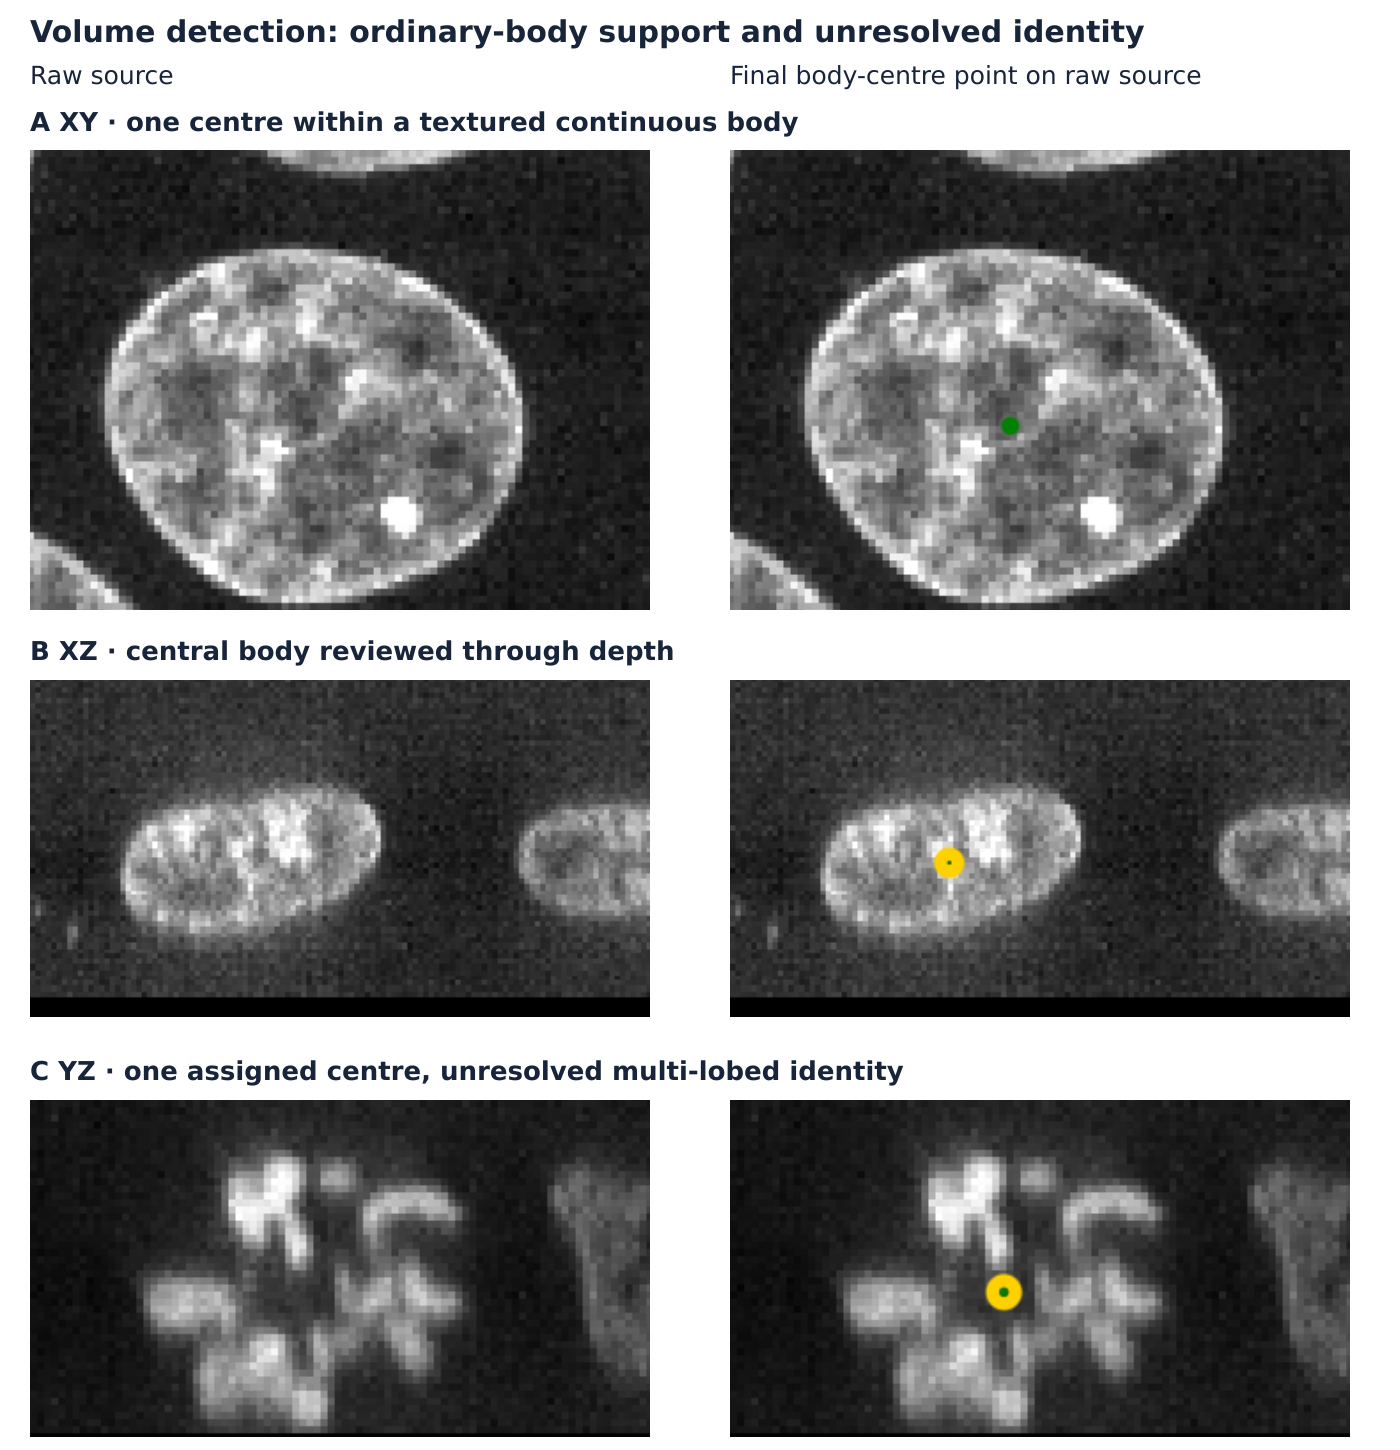
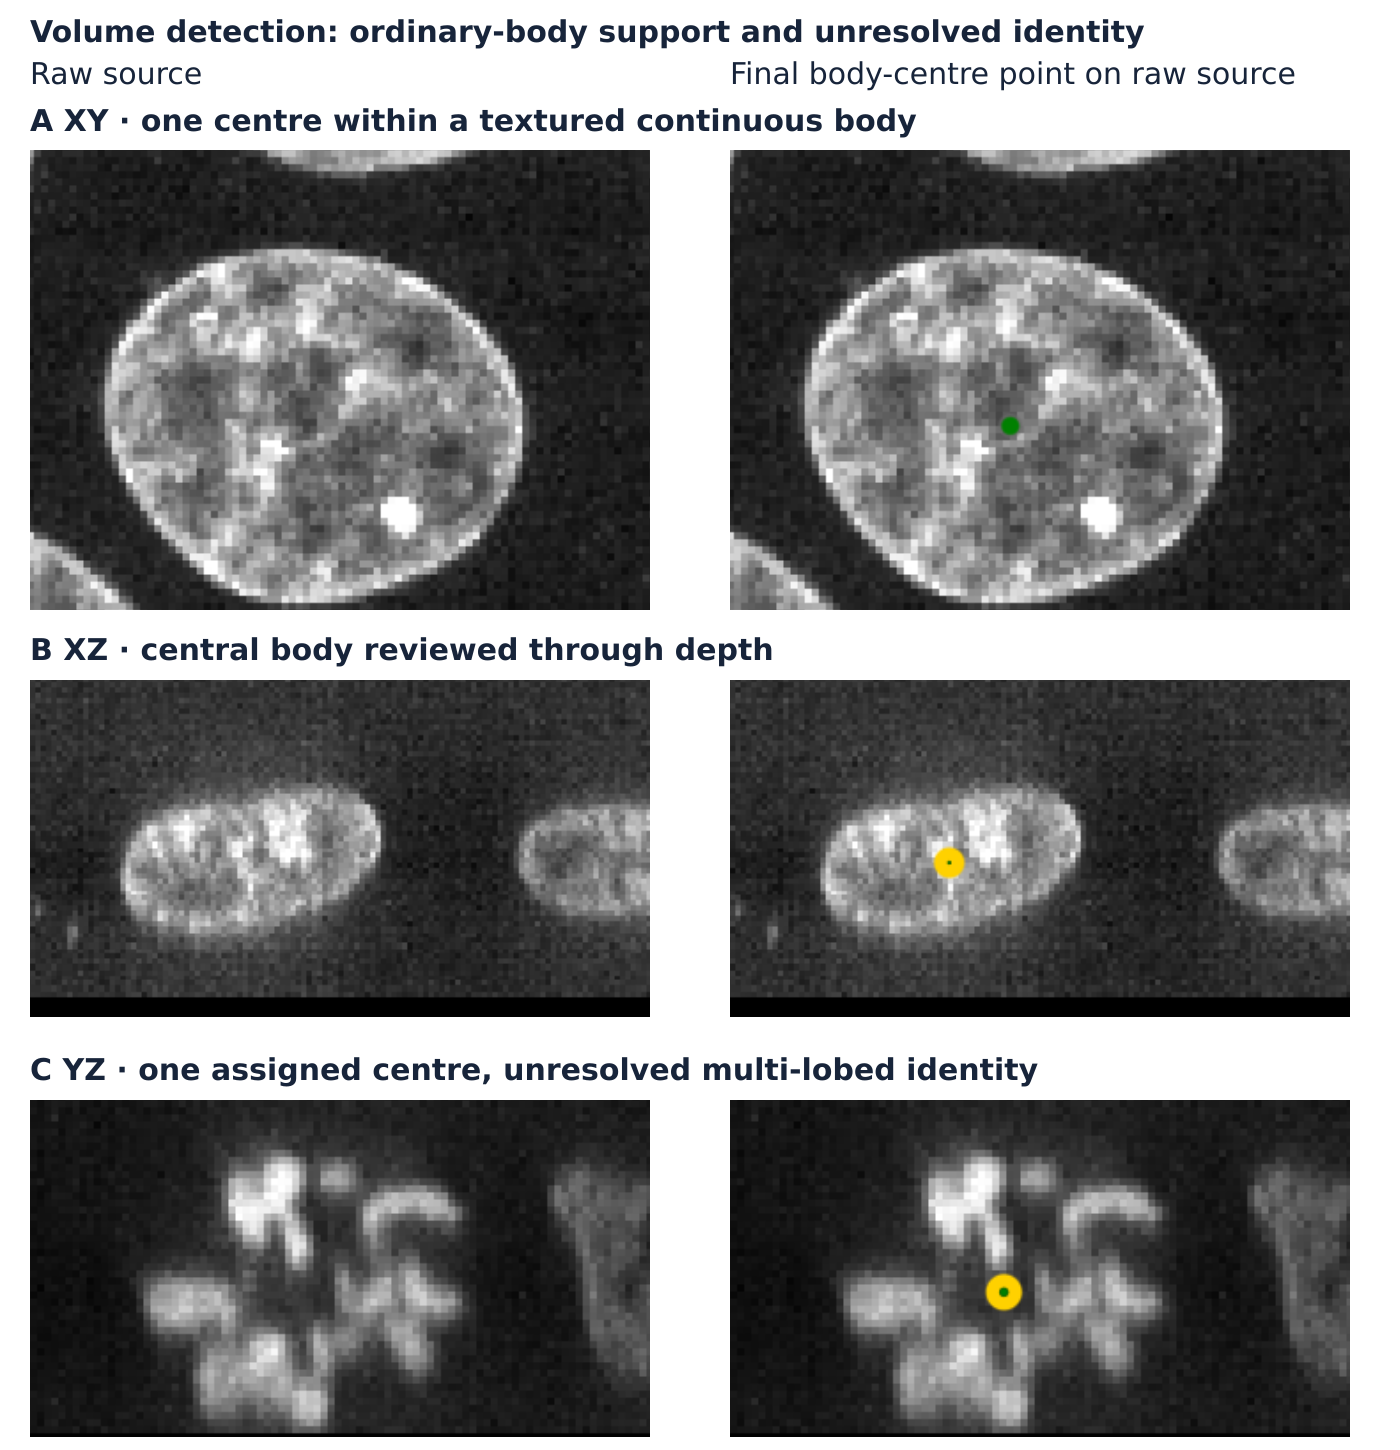
docs(paper): fit native volume figure and caption on one page

Changed region(s): [[0.0307, 0.031, 0.9214, 0.0931], [0.0307, 0.7138, 0.7371, 0.7448], [0.0307, 0.4345, 0.5529, 0.4655]]

diff --git a/paper/supplementary/README.md b/paper/supplementary/README.md
@@ -312,22 +312,19 @@ Supplementary Data 8 records the independently checked tables and final scope.
 
 ## Supplementary Figure 17. Native volume review distinguishes body support from unresolved identity
 
-![Matched raw and final body-centre views in XY, XZ and YZ.](../figures/slas/h002_fresh10_native.png){width=5.5in}
+![Matched raw and final body-centre views in XY, XZ and YZ.](../figures/slas/h002_fresh10_native.png){width=5.2in}
 
-\(A) A textured continuous body has one final centre in native XY. (B) A central
-body is reviewed in a genuine XZ section. (C) A bright multi-lobed cluster has
-one assigned centre, but its nuclear identity and appropriate instance count
-remain unresolved. These final-only views come from an independent task-only
-author analysing a released 60 × 256 × 256 single-channel volume. Its final
-output contains 22 provisional body centres; this is an algorithmic count,
-not a biological census or reference accuracy. Points are displayed at their
-native fractional coordinates; their visibility is slice-local. Yellow rings
-in B–C are native selection highlights. Each pair preserves camera, axes and
-raw display window: 901–27267 (A), 711–27219 (B), and 901–53727 (C), gamma 1.
-Original screenshots are clipped/scaled without retouching; physical
-calibration is unverified. The [native source proof](task_only_analysis/h002-fresh10-native-source-proof.json)
-retains the pipeline and original capture identities. Supplementary Data 8
-distinguishes the author's useful repairs from its unresolved global count.
+\(A) One centre in a textured continuous body, native XY. (B) Central body,
+genuine XZ. (C) One centre in a multi-lobed cluster of unresolved identity,
+genuine YZ. This independent task-only author's 22 provisional centres are
+an algorithmic output, not a biological census or reference score. These
+final-only views do not show the repair chronology. Points have fractional
+coordinates and slice-local visibility; yellow rings are native selection
+highlights. Matched cameras, axes and windows are retained: 901–27267 (A),
+711–27219 (B), and 901–53727 (C), gamma 1. Screenshots are clipped/scaled
+without retouching; physical calibration is unverified. The [native source proof](task_only_analysis/h002-fresh10-native-source-proof.json)
+binds original captures and the pipeline. Supplementary Data 8 retains
+ordinary-body repairs and the unresolved global count separately.
 
 ```{=openxml}
 <w:p><w:r><w:br w:type="page"/></w:r></w:p>
